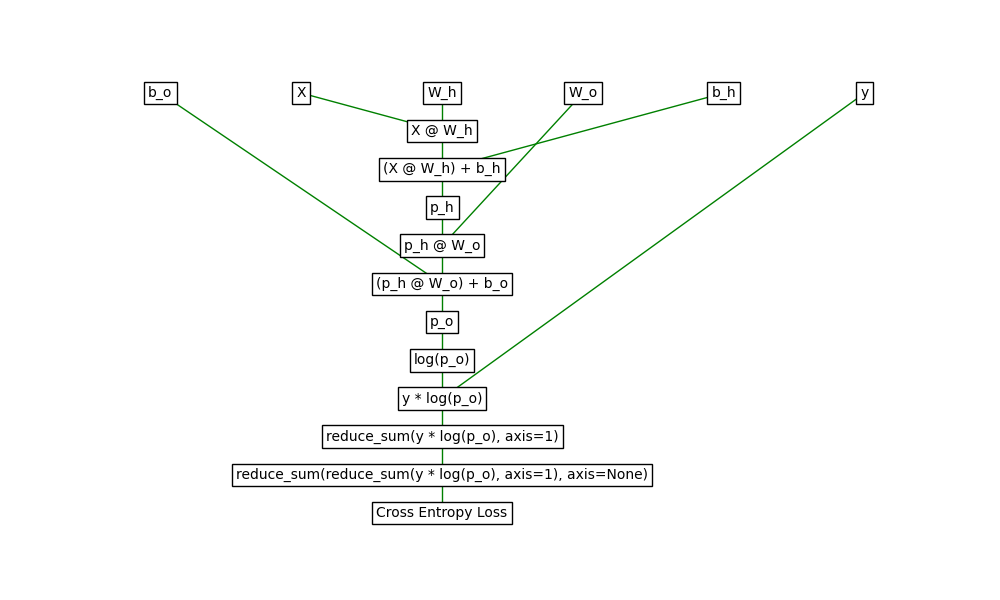
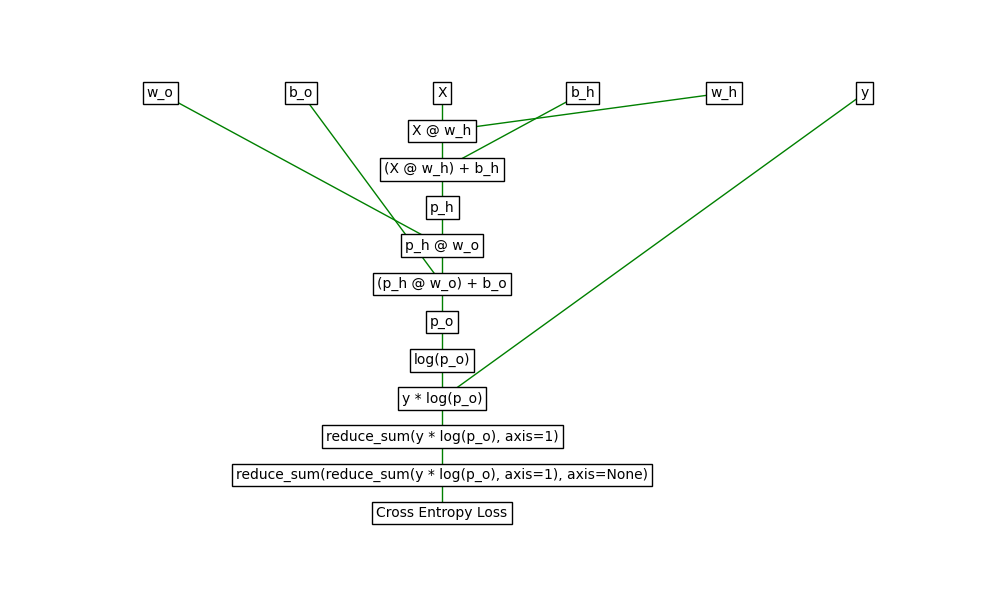
Minor modifications

diff --git a/compgraph/example.py b/compgraph/example.py
@@ -30,14 +30,14 @@ X = cg.PlaceHolder(name='X')
 y = cg.PlaceHolder(name='y')
 
 # Build a hidden layer
-W_hidden = cg.Variable(np.random.randn(2, 2), name='W_h')
+w_hidden = cg.Variable(np.random.randn(2, 2), name='w_h')
 b_hidden = cg.Variable(np.random.randn(2), name='b_h')
-p_hidden = cg.sigmoid(X @ W_hidden + b_hidden, name='p_h')
+p_hidden = cg.sigmoid(X @ w_hidden + b_hidden, name='p_h')
 
 # Build the output layer
-W_output = cg.Variable(np.random.randn(2, 2), name='W_o')
+w_output = cg.Variable(np.random.randn(2, 2), name='w_o')
 b_output = cg.Variable(np.random.randn(2), name='b_o')
-p_output = cg.softmax(p_hidden @ W_output + b_output, name='p_o')
+p_output = cg.softmax(p_hidden @ w_output + b_output, name='p_o')
 
 # Build cross-entropy loss
 loss = -cg.reduce_sum(cg.reduce_sum(y * cg.log(p_output), axis=1))
@@ -52,7 +52,6 @@ feed_dict = {
     y:
         [[1, 0]] * len(blue_points)
         + [[0, 1]] * len(red_points)
-
 }
 
 session = cg.Session()
